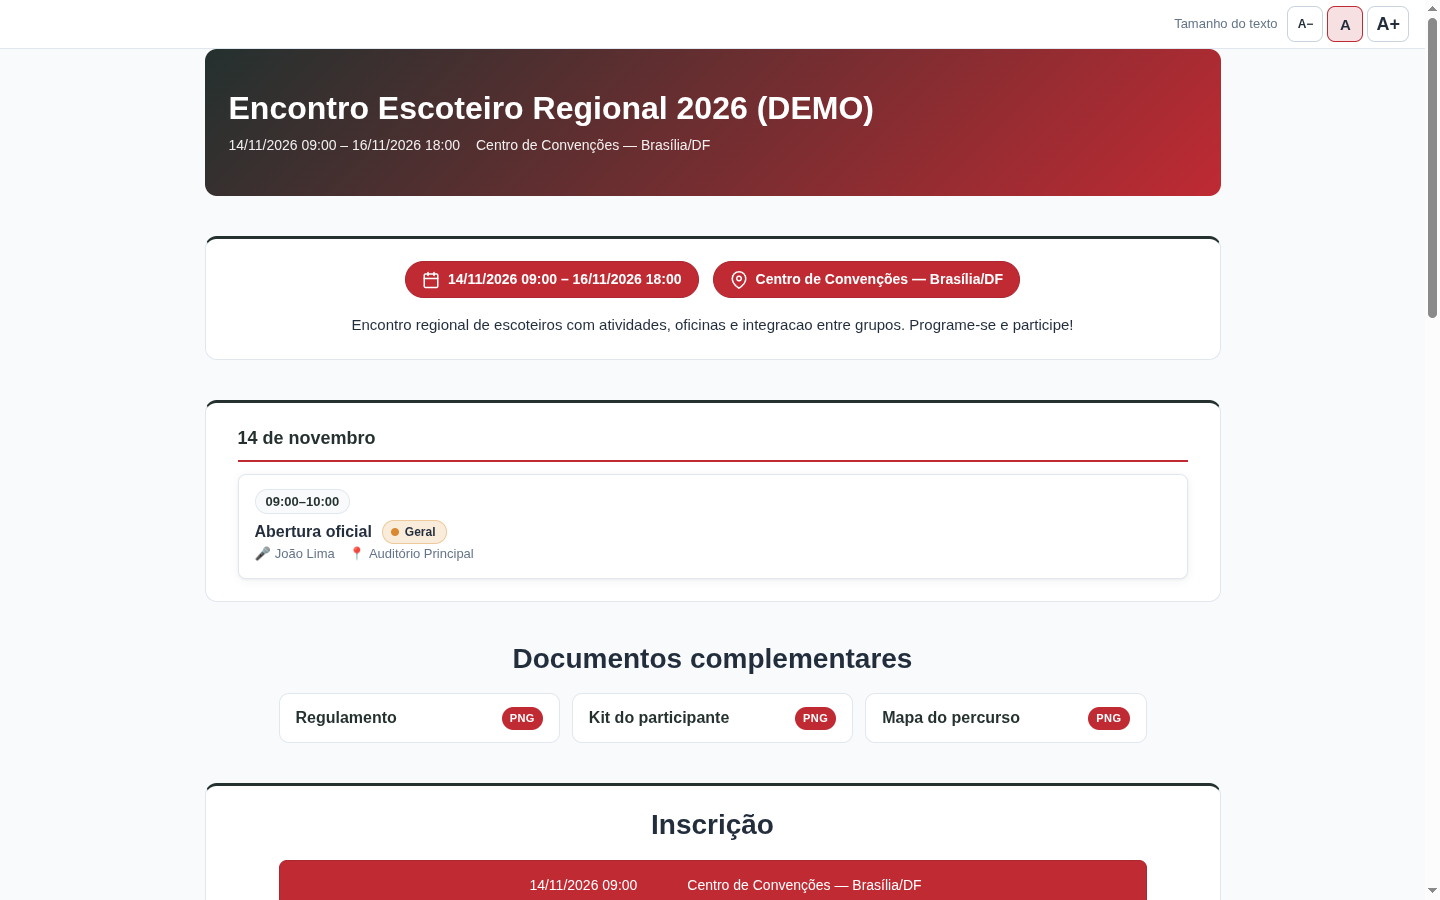
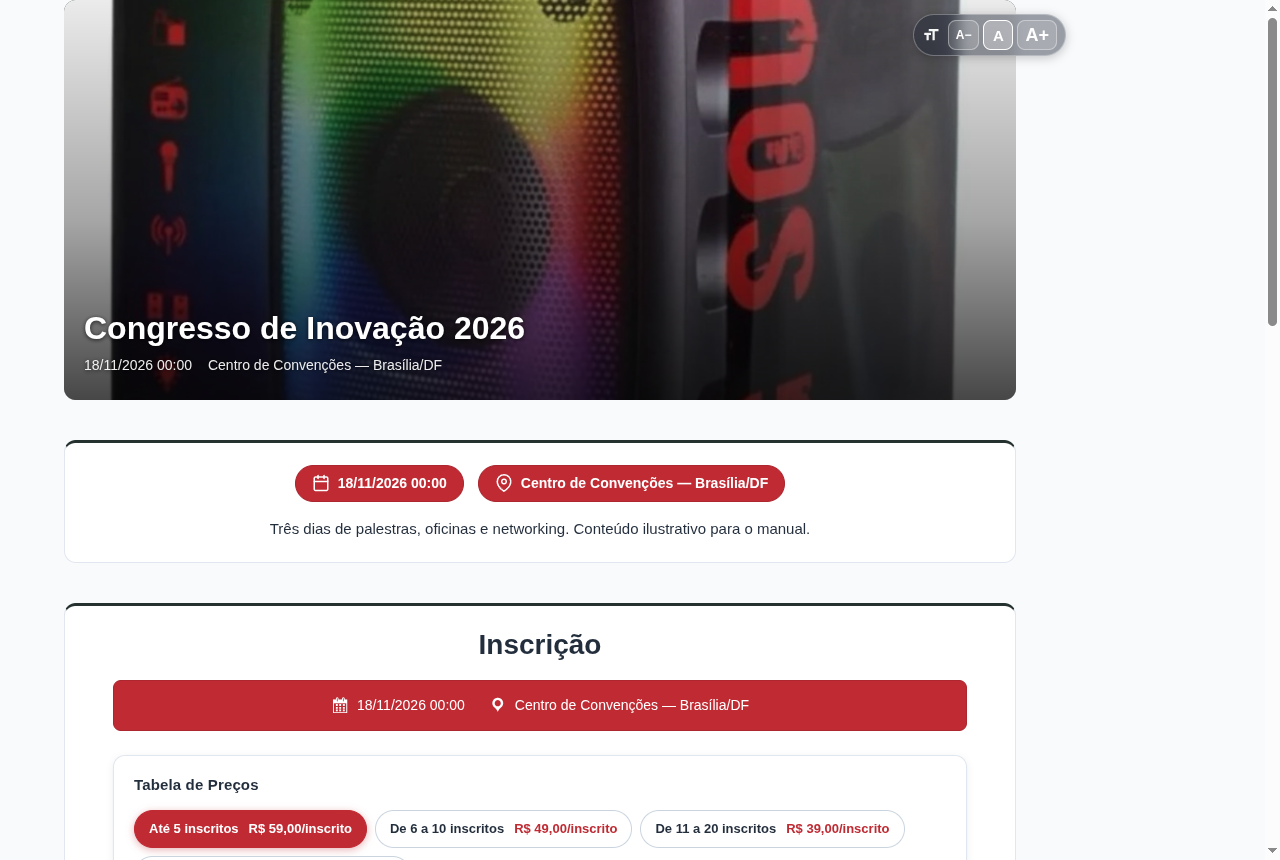
docs(manual): #110 controles de fonte no hero — textos + prints recapturados (caixinha no hero)

diff --git a/novidades.md b/novidades.md
@@ -12,6 +12,11 @@ O que mudou no V3REvent, em linguagem simples — **da mais recente para a mais 
 
 ---
 
+## Controles de tamanho de texto dentro do topo do evento
+**v1.55.0 · julho de 2026**
+
+Os controles de acessibilidade **A− / A / A+** deixaram de ocupar uma faixa de largura inteira no topo da página e agora aparecem numa **caixinha discreta no canto superior direito do topo do evento (hero)** — economizando espaço e mantendo o recurso à mão. A caixinha é translúcida e legível sobre qualquer tipo de topo (imagem, imagem+texto ou só texto), no tema claro ou escuro; no **celular**, fica compacta no canto sem cobrir o título. O funcionamento é o mesmo (aumenta/diminui o conteúdo, memoriza a escolha, liga/desliga na aba **Aparência**). Veja em **[Página do evento](/modulos/pagina-do-evento/#acessibilidade-tamanho-do-texto)**.
+
 ## Largura dos campos no formulário
 **v1.54.0 · julho de 2026**
 
@@ -40,7 +45,7 @@ Agora você pode fazer um campo do formulário **aparecer só quando fizer senti
 ## Controle de tamanho do texto (acessibilidade)
 **v1.51.0 · julho de 2026**
 
-A página do evento passa a oferecer, no topo, uma pequena barra com **A− / A / A+** para o visitante **aumentar ou diminuir o tamanho** do conteúdo — uma ajuda de acessibilidade para quem tem baixa visão. A preferência fica **lembrada** no navegador dele. Vem **ligado por padrão**; se quiser, você desliga por evento na aba **Aparência** do editor. (Vale no layout **"Página do Plugin"**.)
+A página do evento passa a oferecer controles **A− / A / A+** para o visitante **aumentar ou diminuir o tamanho** do conteúdo — uma ajuda de acessibilidade para quem tem baixa visão. A preferência fica **lembrada** no navegador dele. Vem **ligado por padrão**; se quiser, você desliga por evento na aba **Aparência** do editor. (Vale no layout **"Página do Plugin"**.) _Na v1.55.0 esses controles passaram para uma caixinha discreta no canto do topo do evento._
 
 ## Preço por modalidade mais simples
 **v1.50.0 · julho de 2026**

diff --git a/modulos/pagina-do-evento.md b/modulos/pagina-do-evento.md
@@ -75,9 +75,9 @@ Conforme o tema, a página pode incluir:
 
 ## Acessibilidade: tamanho do texto
 
-No topo da página, o visitante encontra uma pequena barra **A− / A / A+** para **diminuir, restaurar ou aumentar** o tamanho do texto — uma ajuda para quem tem baixa visão ou prefere uma leitura mais confortável. A preferência fica **guardada no navegador** dele, valendo nas próximas visitas.
+No **canto superior direito do topo do evento (hero)**, o visitante encontra uma **caixinha discreta** com **A− / A / A+** para **diminuir, restaurar ou aumentar** o tamanho do texto — uma ajuda para quem tem baixa visão ou prefere uma leitura mais confortável. A preferência fica **guardada no navegador** dele, valendo nas próximas visitas.
 
-![Página do evento em tamanho normal (100%), com a barra de acessibilidade A− / A / A+ no topo](/assets/screenshots/pagina-acessibilidade-100.png)
+![Página do evento em tamanho normal (100%), com a caixinha de acessibilidade A− / A / A+ no canto superior direito do hero](/assets/screenshots/pagina-acessibilidade-100.png)
 
 Ao clicar em **A+**, o conteúdo é ampliado sem quebrar o layout:
 

diff --git a/modulos/editor-evento.md b/modulos/editor-evento.md
@@ -232,7 +232,7 @@ A identidade visual do evento, que se aplica ao formulário, à página, aos e-m
 ![Aba Aparência do editor de evento](/assets/screenshots/evento-editor-aparencia.png)
 
 {: .note }
-> **Controles de tamanho de texto (acessibilidade).** Ainda na aba **Aparência**, a opção **"Mostrar controles de tamanho de texto na página do evento"** exibe uma barra com **A− / A / A+** no topo da página (layout "Página do Plugin"), para o visitante aumentar ou diminuir o conteúdo. Vem **ligada por padrão**; desmarque para ocultá-la neste evento.
+> **Controles de tamanho de texto (acessibilidade).** Ainda na aba **Aparência**, a opção **"Mostrar controles de tamanho de texto na página do evento"** exibe **A− / A / A+** numa **caixinha discreta no canto superior direito do topo do evento (hero)** (layout "Página do Plugin"), para o visitante aumentar ou diminuir o conteúdo. Vem **ligada por padrão**; desmarque para ocultá-la neste evento.
 
 - **Logo do evento** (pela Biblioteca de Mídia) e a **posição** dela na página do evento (ver abaixo);
 - **Cores do evento** (ver abaixo);